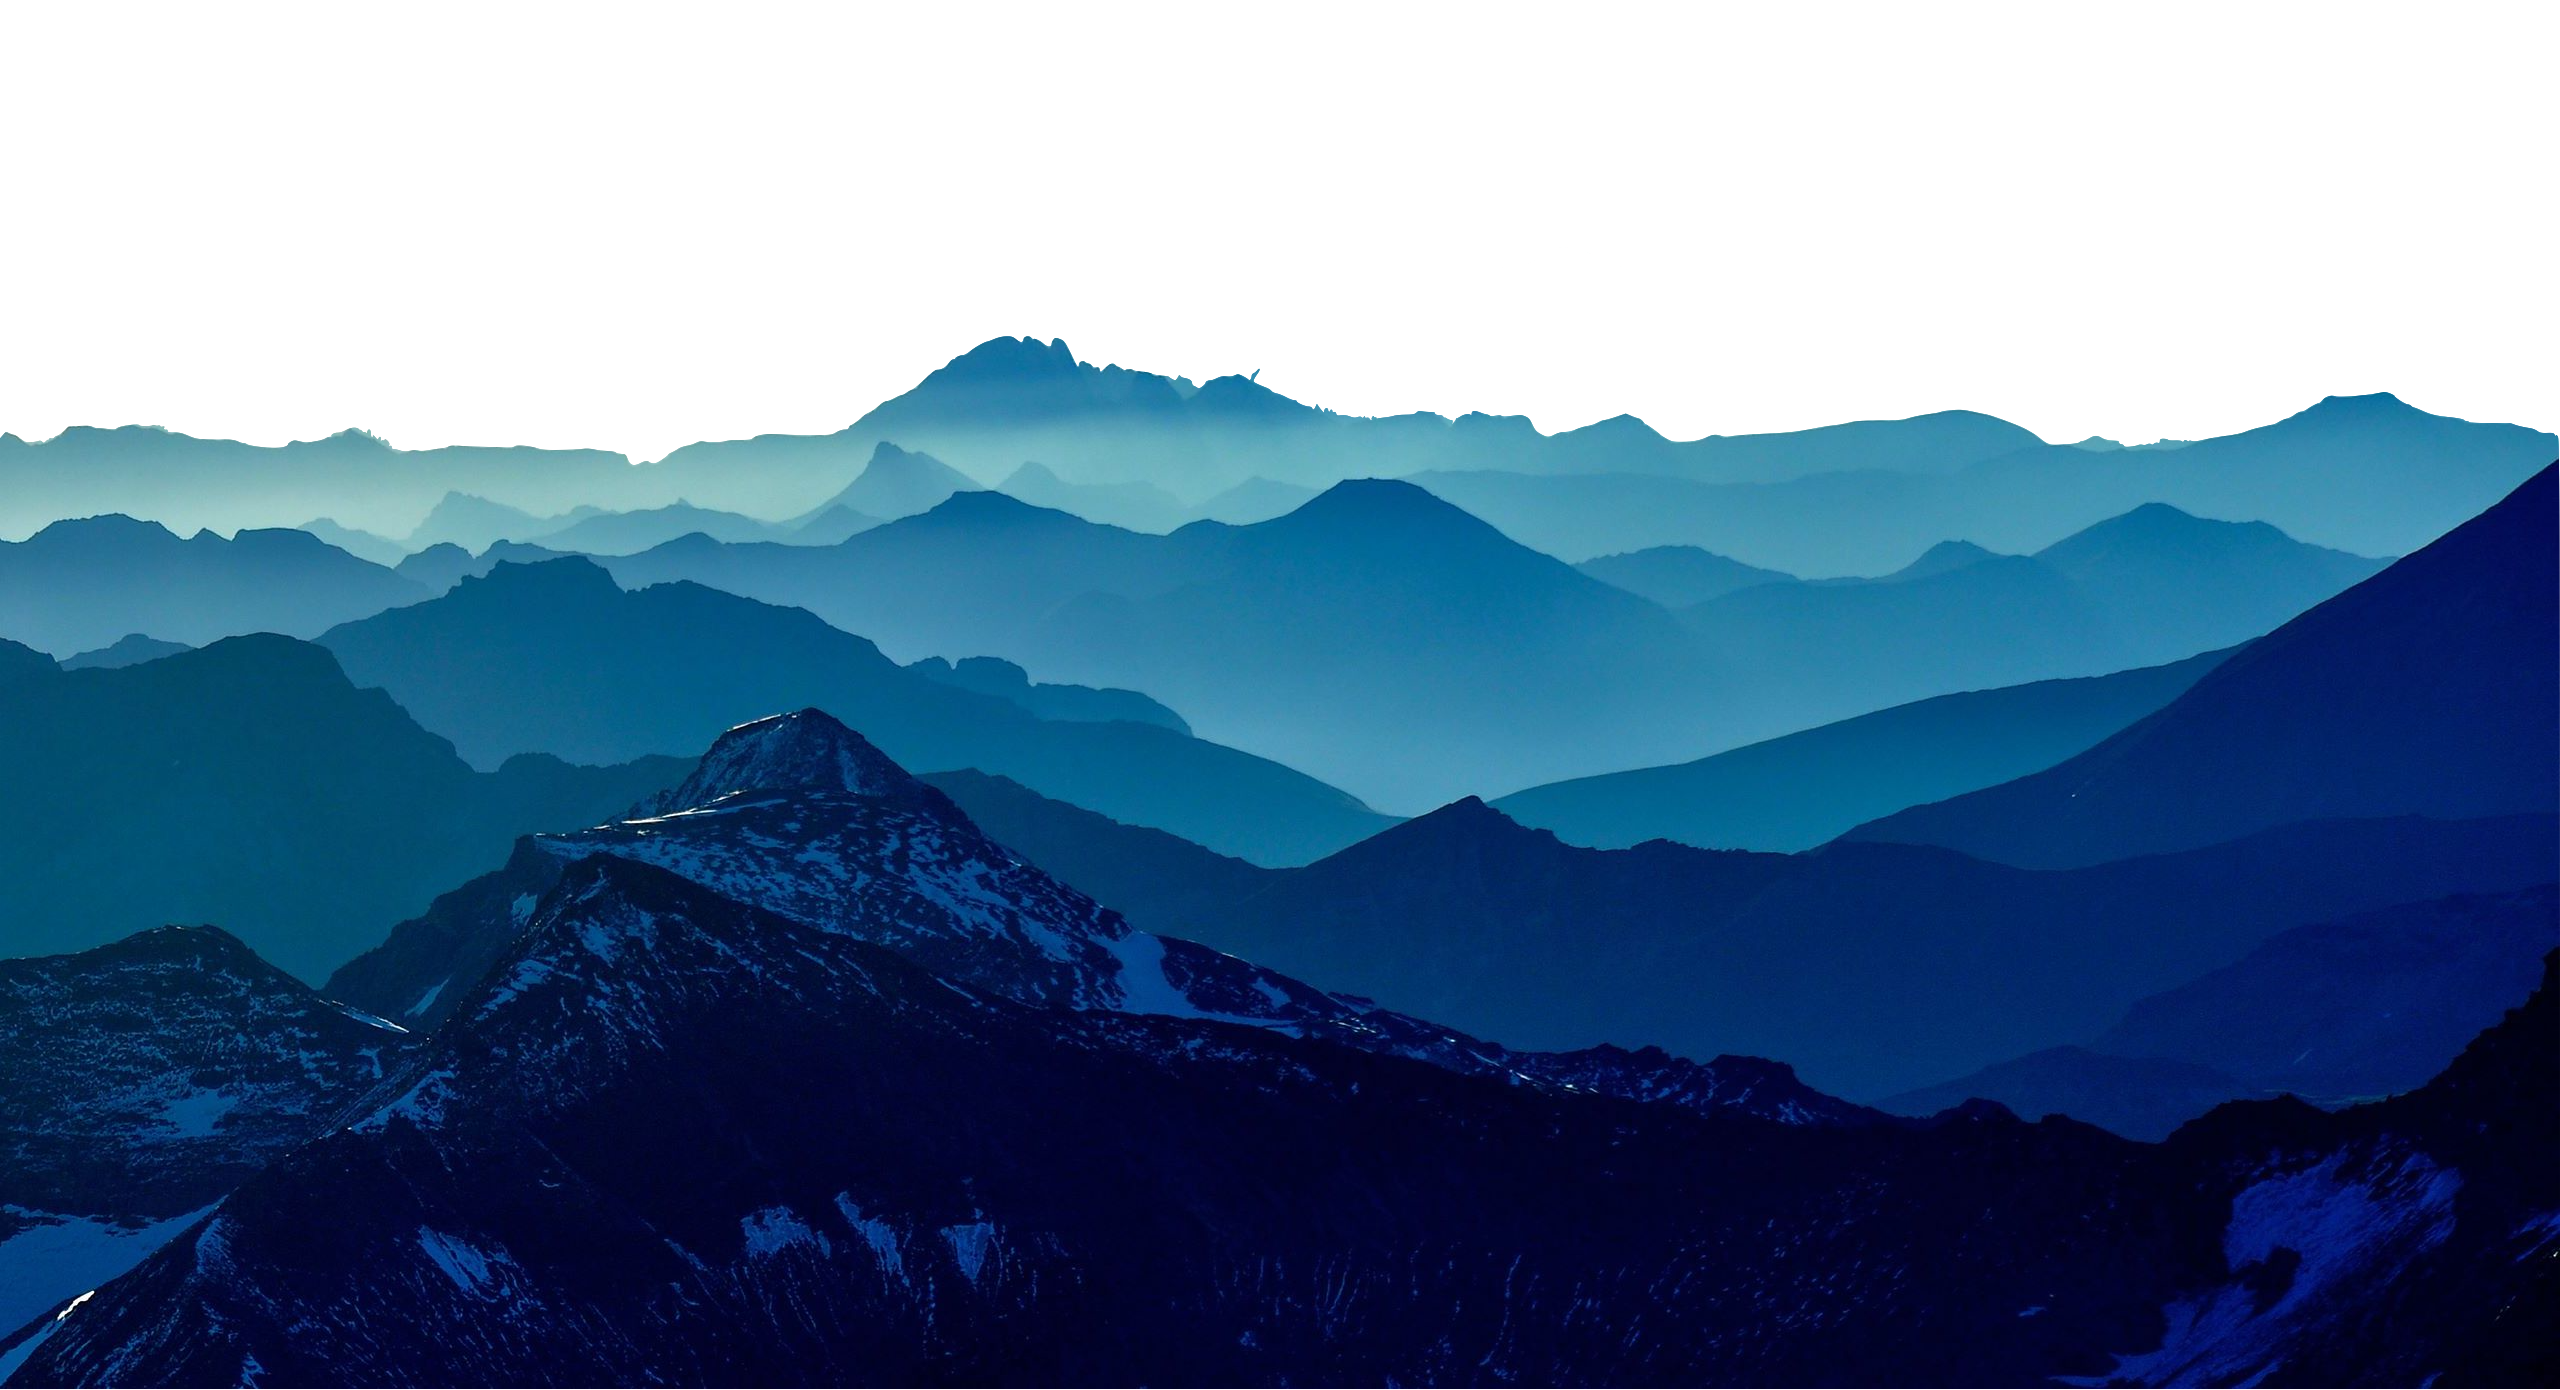
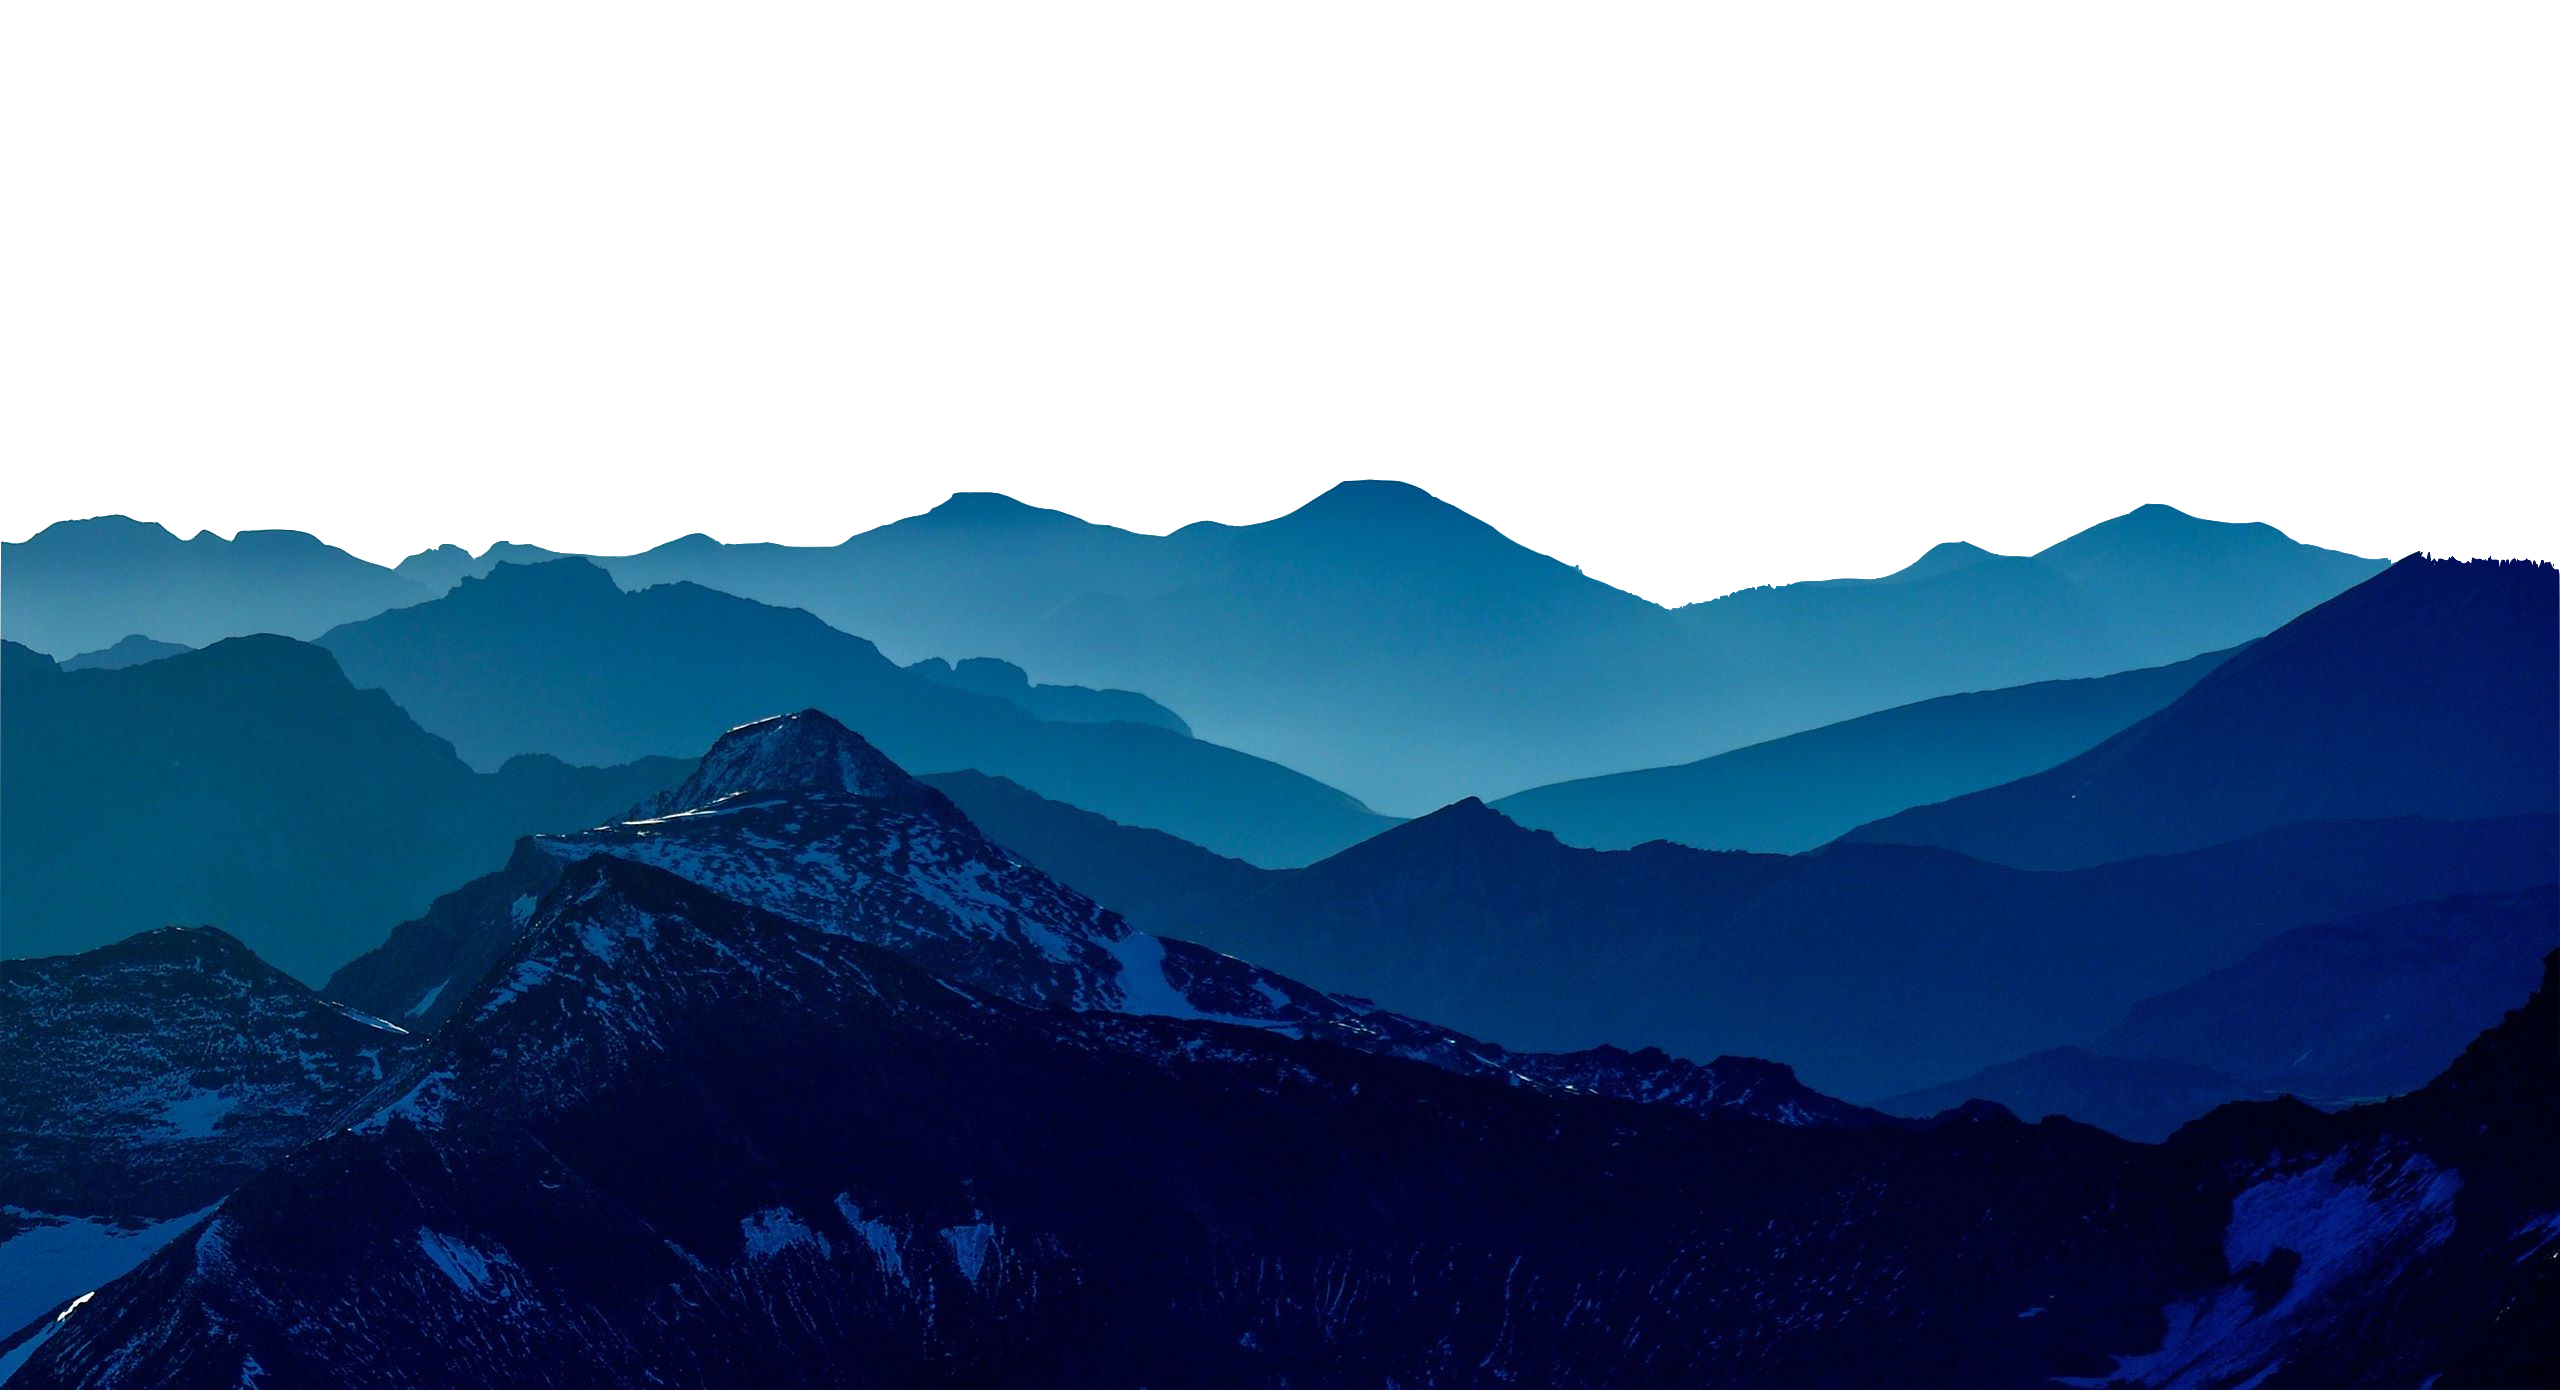
add another parallax layer, parallax.js won't hanldle more than 6 layers ???

Changed region(s): [[0.0, 0.2475, 1.0, 0.4331]]

diff --git a/src/scripts/parallax.js b/src/scripts/parallax.js
@@ -26,14 +26,30 @@ if (window.innerWidth > 768) {
 
 	// 					CURRENT VERSION:
 
+	// MOUNTAIN LAYERS:
+
 	let timelineMountain = new TimelineMax()
 		.to("#mountain-crop-1", 3, { y: -800 }, "-=30")
+
 		// .to("#mountain-crop-1", 3, { scale: 2, opacity: 0, ease: Linear.easeNone })
+
 		.to("#mountain-crop-2", 3, { y: -500 }, "-=30")
 		.to("#mountain-crop-3", 3, { y: -250 }, "-=30")
-		.to("#mountain-crop-4", 3, { y: -55 }, "-=30")
-		.to("#mountain-crop-5", 3, { y: 20 }, "-=30")
-		.to("#mountain-full", 3, { y: 100 }, "-=30")
+		.to("#mountain-crop-4", 3, { y: -115 }, "-=30")
+		.to("#mountain-crop-5", 3, { y: -30 }, "-=30")
+		// !!! CURRENTLY NOT IN USE AS PARALLAX.JS CAN'T HANDLE MORE THAN 6 LAYERS !!!
+		// .to("#mountain-crop-6", 3, { y: -20 }, "-=30");
+		.to("#mountain-full", 3, { y: 100 }, "-=30");
+	new ScrollMagic.Scene({
+		triggerElement: ".image-container",
+		duration: "3000%",
+		triggerHook: 0,
+	})
+		.setTween(timelineMountain)
+		.addTo(controller);
+
+	// TITLE-DIV AND MAIN CONTENT:
+	let timelineContentAndTitle = new TimelineMax()
 		.to("#title-div", 3, { top: "-120%" }, "-=30")
 		// MAIN CONTENT SLIDES ON TOP
 		.to(".main-content", 3, { top: "0%" }, "-=30");
@@ -42,7 +58,7 @@ if (window.innerWidth > 768) {
 		duration: "3000%",
 		triggerHook: 0,
 	})
-		.setTween(timelineMountain)
+		.setTween(timelineContentAndTitle)
 		.addTo(controller);
 
 

diff --git a/index.html b/index.html
@@ -150,6 +150,10 @@
                     class="mountain-parallax mountain-crop mountain-crop-4 non-mobile-size" alt="" />
                 <img src="./images/mountain-crop-5.png" id="mountain-crop-5"
                     class="mountain-parallax mountain-crop mountain-crop-5 non-mobile-size" alt="" />
+
+                <!-- !!! CURRENTLY NOT IN USE, PARALLAX.JS WON'T HANDLE MORE THAN 6 LAYERS !!! -->
+                <!-- <img src="./images/mountain-crop-6.png" id="mountain-crop-6"
+                    class="mountain-parallax mountain-crop mountain-crop-6 non-mobile-size" alt="" /> -->
             </div>
 
 
